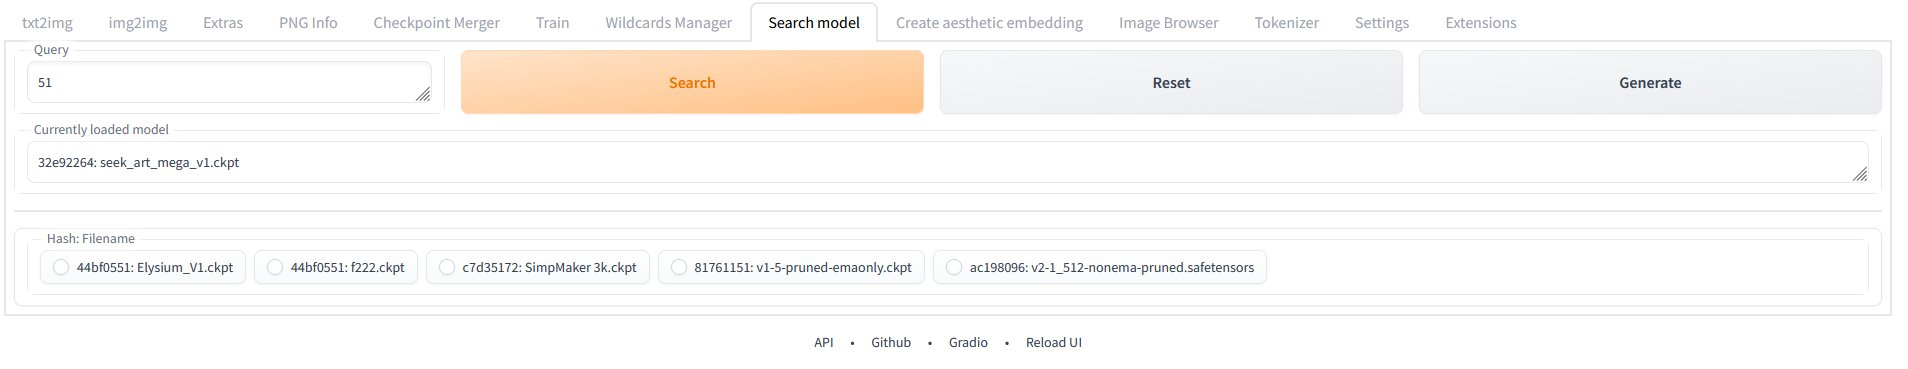
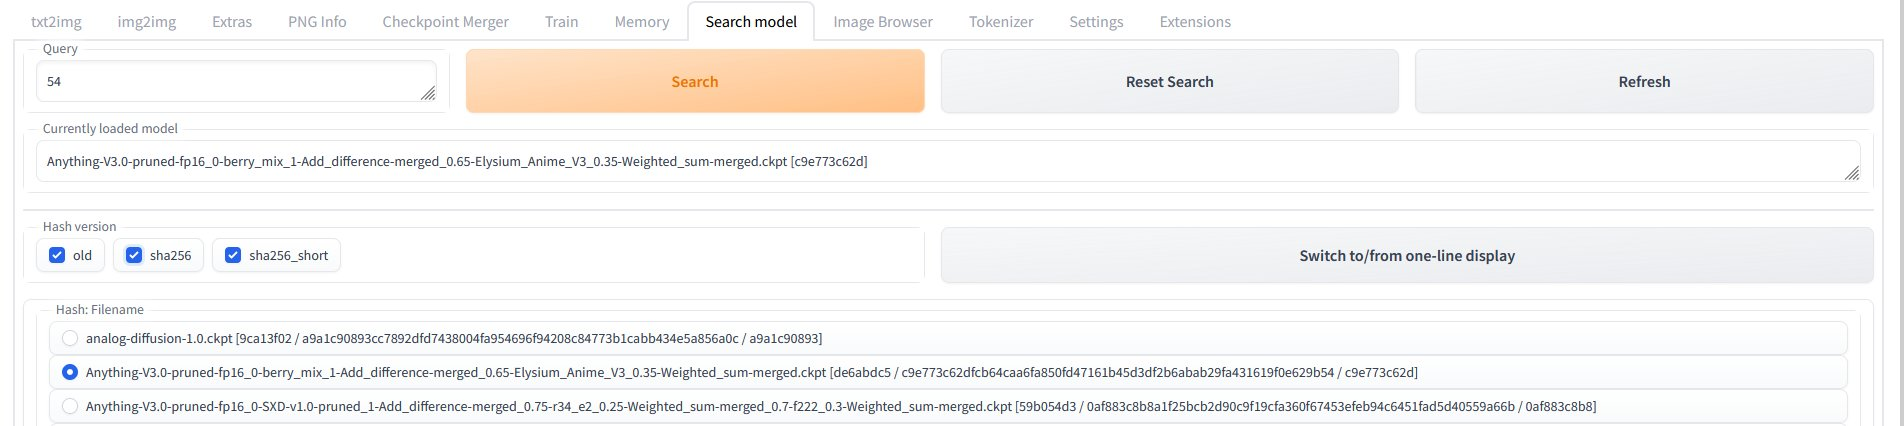
multiple hash versions handling

diff --git a/scripts/sd_search_model.py b/scripts/sd_search_model.py
@@ -2,41 +2,58 @@ from modules.paths import models_path
 from modules import script_callbacks
 from modules import sd_models
 from modules import shared
-import datetime
+from modules import ui
 import fnmatch
 import gradio as gr
 import hashlib
 import json
-import time
 import os
-import re
+
+def timeout(js):
+    # For some reason gradio is not ready yet, when javascript starts, so here's a timeout to make it work
+    js_timeout = "setTimeout(function() {" + js + "}, 200)"
+
+    return js_timeout
+
+def hash_display(filename, hash, hash_types):
+    display = filename
+    split = hash.split(" / ")
+    if len(hash_types) > 0:
+        display = f"{display} ["
+        if "old" in hash_types:
+            display = f"{display}{split[0]} / "
+        if "sha256" in hash_types:
+            display = f"{display}{split[1]} / "
+        if "sha256_short" in hash_types:
+            display = f"{display}{split[2]} / "
+        display = display[:-3] + "]"
+
+    return display
 
 def on_ui_tabs():
-    def ssm_choices(hashes):
+    def ssm_choices(hashes, hash_types):
         if hashes:
             choices = []
             for filename, (hash, visible) in hashes.items():
                 if visible:
-                    choices.append(f"{hash}: {filename}")
+                    display = hash_display(filename, hash, hash_types)
+                    choices.append(display)
 
         return choices
 
-    def ssm_model_ssm2sd(ssm2sd_model_name):
-        split = ssm2sd_model_name.split(":")
-        hash = split[0]
-        filename = split[1].strip()
-        if "[" in shared.opts.sd_model_checkpoint and "]" in shared.opts.sd_model_checkpoint:
-            new_name = f"{filename} [{hash}]"
-        else:
-            new_name = f"{filename}]"
+    def ssm_without_hashes(ssm2sd_model_name):
+        split = ssm2sd_model_name.split(" [")
+        new_name = split[0]
         return new_name
 
-    def ssm_model_sd2ssm(sd2ssm_model_name):
-        if "[" in sd2ssm_model_name and "]" in sd2ssm_model_name:
-            split = re.split(r'[\[\]]', sd2ssm_model_name)
-            new_name = f"{split[1]}: {split[0].strip()}"
-        else:
-            new_name = sd2ssm_model_name
+    def ssm_with_hashes(sd2ssm_model_name, ssm_hashes_textbox_value, ssm_hash_version_value):
+        hashes = json.loads(ssm_hashes_textbox_value)
+        new_name = ""
+        for filename, (hash, visible) in hashes.items():
+            if filename == sd2ssm_model_name:
+                new_name = hash_display(filename, hash, ssm_hash_version_value)
+                break
+
         return new_name
 
     def ssm_generate(*args):
@@ -48,28 +65,42 @@ def on_ui_tabs():
             for file in filenames:
                 if file.endswith('.ckpt') or file.endswith('.safetensors'):
                     model_files.append(os.path.join(dirpath, file))
-        # Calculate the hash of each file and store it in a dictionary
+        # Get the hashes of each file and store it in a dictionary
         hashes = {}
         for file in model_files:
             with open(file, 'rb') as f:
+                # Old hash function, implemented here in case it gets removed
                 hash_function = hashlib.sha256()
                 f.seek(0x100000)
                 hash_function.update(f.read(0x10000))
+                hash_old = hash_function.hexdigest()[0:8]
+                # New hash function
+                hash_new_info = sd_models.CheckpointInfo(file)
+                hash_new_info.calculate_shorthash()
+                hash_new = hash_new_info.sha256
+                hash_new_short = hash_new_info.shorthash
+                hash_all = f"{hash_old} / {hash_new} / {hash_new_short}"
                 relative_path = os.path.relpath(file, model_path)
-                hashes[relative_path] = (hash_function.hexdigest()[0:8], True)
+                hashes[relative_path] = (hash_all, True)
 
         return hashes
 
     def ssm_generate_again(*args):
+        hash_types = args[0]
+        selected = args[1]
+        ssm_trigger1_number = args[2] + 1
         hashes = ssm_generate()
         ssm_hashes_textbox = json.dumps(hashes)
-        choices = ssm_choices(hashes)
+        choices = ssm_choices(hashes, hash_types)
 
-        return ssm_hashes_textbox, gr.update(choices=choices)
+        return ssm_hashes_textbox, gr.update(choices=choices, value=selected), ssm_trigger1_number
 
     def ssm_search(*args):
         query = args[0]
         hashes = json.loads(args[1])
+        hash_types = args[2]
+        selected = args[3]
+        ssm_trigger1_number = args[4] + 1
         # Check if the query matches any filenames or hashes in the hashes dictionary
         for filename, (hash, visible) in hashes.items():
             query_wildcard = "*" + query + "*"
@@ -77,63 +108,108 @@ def on_ui_tabs():
                 hashes[filename] = (hash, True)
             else:
                 hashes[filename] = (hash, False)
-        choices = ssm_choices(hashes)
+        choices = ssm_choices(hashes, hash_types)
 
-        return gr.update(choices=choices)
+        return gr.update(choices=choices, value=selected), json.dumps(hashes), ssm_trigger1_number
 
     def ssm_reset(*args):
         hashes = json.loads(args[0])
+        hash_types = args[1]
+        selected = args[2]
+        ssm_trigger1_number = args[3] + 1
         for filename, (hash, visible) in hashes.items():
                 hashes[filename] = (hash, True)
-        choices = ssm_choices(hashes)
+        choices = ssm_choices(hashes, hash_types)
 
-        return gr.update(choices=choices)
+        return gr.update(choices=choices, value=selected), ssm_trigger1_number
+
+    def ssm_hash_version_change(*args):
+        hashes = json.loads(args[0])
+        hash_types = args[1]
+        selected = args[2]
+        choices = ssm_choices(hashes, hash_types)
+
+        return gr.update(choices=choices, value=selected)
 
     def ssm_radio_change(*args):
         choice = args[0]
-
-        # All these versions seem to work, but none changes the value in the drop down :(
-        #shared.sd_model = filename
-        #sd_models.reload_model_weights()
-        #ui.apply_setting("sd_model_checkpoint", filename)
-        #shared.opts.onchange("sd_model_checkpoint", wrap_queued_call(lambda: sd_models.reload_model_weights()))
-        shared.opts.sd_model_checkpoint = ssm_model_ssm2sd(choice)
-        sd_models.reload_model_weights()
        
+        choice = ssm_without_hashes(choice)
+        model_dir = "Stable-diffusion"
+        model_path = os.path.abspath(os.path.join(models_path, model_dir, choice))
+        choice_checkpoint_info = sd_models.CheckpointInfo(model_path)
+        choice_checkpoint_info.register()
+        ui.apply_setting("sd_model_checkpoint", choice_checkpoint_info.title)
+       
+        # Current model format for webui
+        choice = ssm_with_hashes(choice, ssm_hashes_textbox.value, ["sha256_short"])
+
         return choice
 
     with gr.Blocks() as ssm_interface:
         with gr.Row():
             ssm_query_textbox = gr.Textbox(label="Query", elem_id="ssm_query")
             ssm_search_button = gr.Button(value="Search", elem_id="ssm_search", variant="primary")
-            ssm_reset_button = gr.Button(value="Reset", elem_id="ssm_reset")
-            ssm_generate_button = gr.Button(value='Generate', elem_id="ssm_generate")
+            ssm_reset_button = gr.Button(value="Reset Search", elem_id="ssm_reset")
+            ssm_generate_button = gr.Button(value='Refresh', elem_id="ssm_generate")
 
         with gr.Row():
-            ssm_current_textbox = gr.Textbox(label="Currently loaded model", elem_id="ssm_current", value=ssm_model_sd2ssm(shared.opts.sd_model_checkpoint))
+            ssm_current_textbox = gr.Textbox(label="Currently loaded model", elem_id="ssm_current", value=shared.opts.sd_model_checkpoint)
+            ssm_trigger1_number = gr.Number(label="ssm_trigger1", elem_id="ssm_trigger1", value=1, visible=False)
 
         with gr.Row():
             ssm_hashes_textbox = gr.Textbox(label="ssm_hashes", elem_id="ssm_hashes", value=json.dumps(ssm_generate()), visible=False)
 
+        with gr.Row():
+            ssm_hash_version_checkbox = gr.CheckboxGroup(label="Hash version", elem_id="ssm_hash_version", choices=("old", "sha256", "sha256_short"), value="old")
+            ssm_radio1_button = gr.Button(value="Switch to/from one-line display", elem_id="ssm_radio1")
+
         with gr.Box():
-            ssm_radio = gr.Radio(label="Hash: Filename", elem_id="ssm_radio", choices=ssm_choices(json.loads(ssm_hashes_textbox.value)))
+            ssm_radio = gr.Radio(label="Hash: Filename", elem_id="ssm_radio", choices=ssm_choices(json.loads(ssm_hashes_textbox.value), ssm_hash_version_checkbox.value), value=ssm_with_hashes(shared.opts.sd_model_checkpoint, ssm_hashes_textbox.value, ssm_hash_version_checkbox.value))
 
         ssm_search_button.click(
             fn=ssm_search,
-            inputs=[ssm_query_textbox, ssm_hashes_textbox],
-            outputs=[ssm_radio],
+            inputs=[ssm_query_textbox, ssm_hashes_textbox, ssm_hash_version_checkbox, ssm_radio, ssm_trigger1_number],
+            outputs=[ssm_radio, ssm_hashes_textbox, ssm_trigger1_number],
         )
 
         ssm_reset_button.click(
             fn=ssm_reset,
-            inputs=[ssm_hashes_textbox],
-            outputs=[ssm_radio],
+            inputs=[ssm_hashes_textbox, ssm_hash_version_checkbox, ssm_radio, ssm_trigger1_number],
+            outputs=[ssm_radio, ssm_trigger1_number],
         )
 
         ssm_generate_button.click(
             fn=ssm_generate_again,
+            inputs=[ssm_hash_version_checkbox, ssm_radio, ssm_trigger1_number],
+            outputs=[ssm_hashes_textbox, ssm_radio, ssm_trigger1_number],
+        )
+
+        ssm_current_textbox.change(
+            fn=None,
             inputs=[],
-            outputs=[ssm_hashes_textbox, ssm_radio],
+            outputs=[],
+            _js=timeout('ssm_current_value=gradioApp().getElementById("ssm_current").querySelector("textarea").value;ssm_model_select=gradioApp().querySelectorAll("#setting_sd_model_checkpoint select option"); for (ssm_i=0; ssm_i < ssm_model_select.length; ssm_i++) {if (ssm_model_select[ssm_i].value == ssm_current_value) {ssm_model_select[ssm_i].selected=true; break;}}'),
+        )
+
+        ssm_trigger1_number.change(
+            fn=None,
+            inputs=[],
+            outputs=[],
+            _js=timeout('ssm_current_value=gradioApp().getElementById("ssm_current").querySelector("textarea").value;ssm_model_select=gradioApp().querySelectorAll("#setting_sd_model_checkpoint select option"); for (ssm_i=0; ssm_i < ssm_model_select.length; ssm_i++) {if (ssm_model_select[ssm_i].value == ssm_current_value) {ssm_model_select[ssm_i].selected=true; break;}}'),
+        )
+
+        ssm_hash_version_checkbox.change(
+            fn=ssm_hash_version_change,
+            inputs=[ssm_hashes_textbox, ssm_hash_version_checkbox, ssm_radio],
+            outputs=[ssm_radio],
+        )
+
+        ssm_radio1_button.click(
+            fn=None,
+            inputs=[],
+            outputs=[],
+            _js=timeout('ssm_class = gradioApp().querySelectorAll(".flex.flex-wrap.gap-2");ssm_class.forEach(function(elem) {radio = elem.querySelectorAll("input[name=\'radio-ssm_radio\']");if (radio.length > 0) {if (elem.style.display == "block"){elem.style.display = "flex"} else {elem.style.display = "block";}}})'),
         )
 
         ssm_radio.change(

diff --git a/README.md b/README.md
@@ -2,14 +2,11 @@
 
 A custom extension for [AUTOMATIC1111/stable-diffusion-webui](https://github.com/AUTOMATIC1111/stable-diffusion-webui) to easier search for a model.
 
-With more and more models I find it increasingly difficult to find the one with the right checksum to follow someone's prompt. Also I get more and more models with the same checksum by now.
+With more and more models I find it increasingly difficult to find the one with the right checksum to follow someone's prompt. In addition to that, by now there have been more than one version of the checkpoint algorithm.
 
 To help with this a little, I wrote this simple extension.
 
-After choosing a new grid option in the settings:
-<img src="images/extension.jpg"/>
-
-The query wildcard-searches over hash and filename. Results are filtered and the model can be directly loaded by clicking its radio button.
+The query wildcard-searches over all hash-versions and the filename. Results are filtered and the model can be directly loaded by clicking its radio button.
 
 ## Installation
 
@@ -18,8 +15,3 @@ The extension can be installed directly from within the **Extensions** tab withi
 You can also install it manually by running the following command from within the webui directory:
 
 	git clone https://github.com/AlUlkesh/sd_search_model/ extensions/sd_search_model
-
-## Limitations
-* Not pretty. I haven't found out yet how to do gradio and pretty.
-* Haven't found a way to update the model name in the usual dropdown. But the model is being loaded, as can be seen on the "Currently loaded model" field.
-
